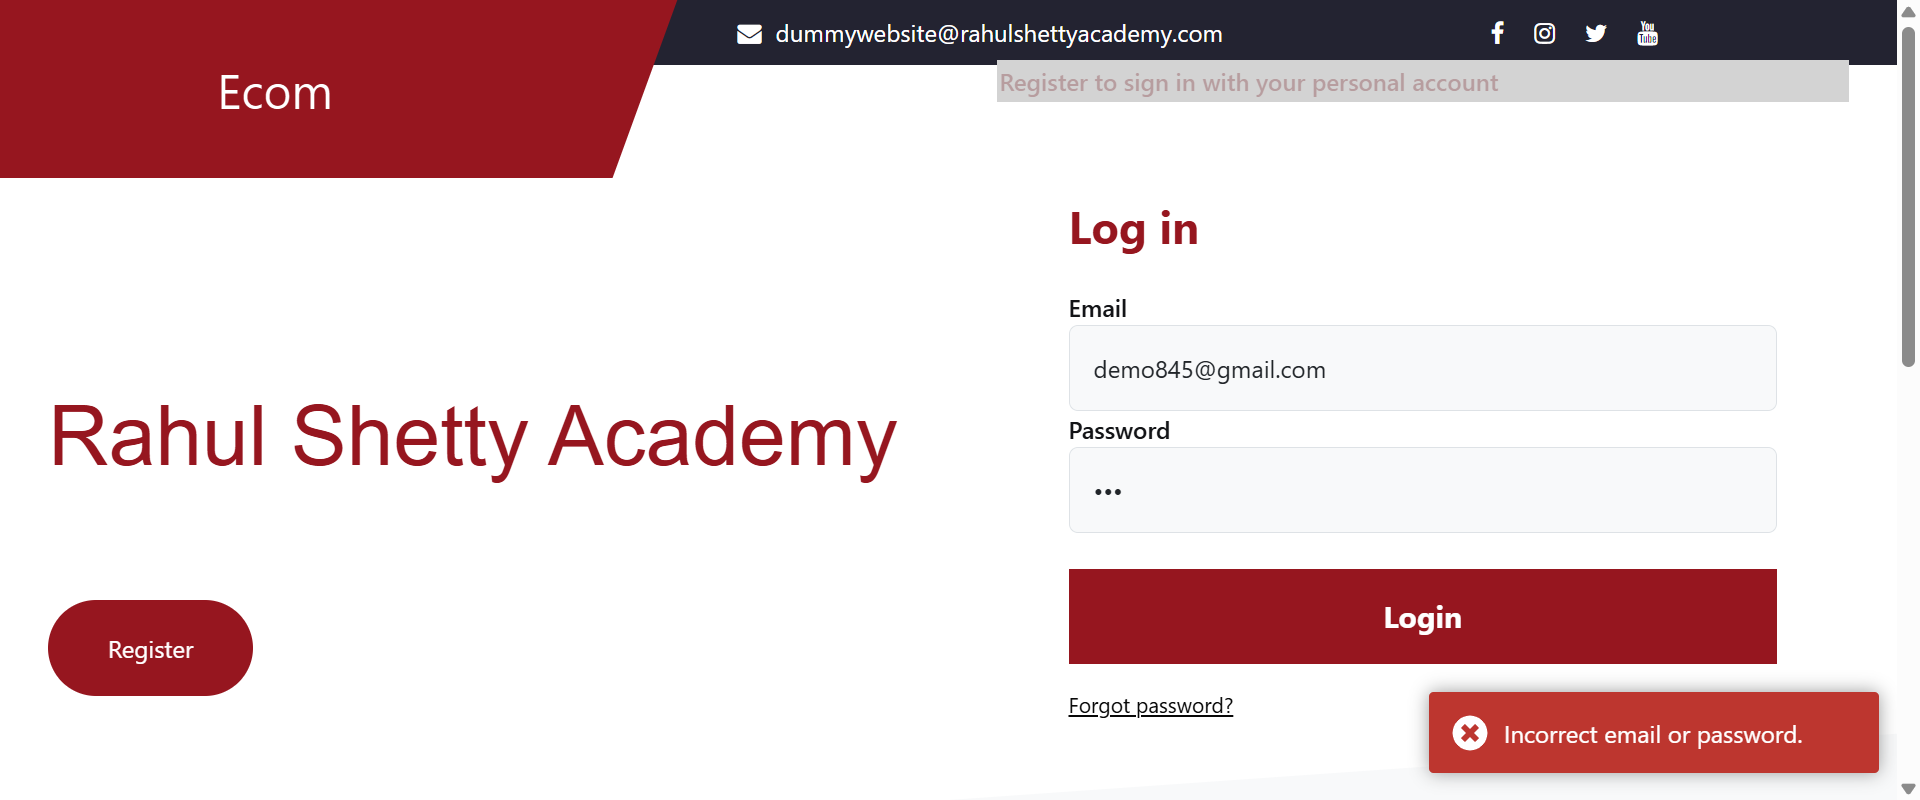
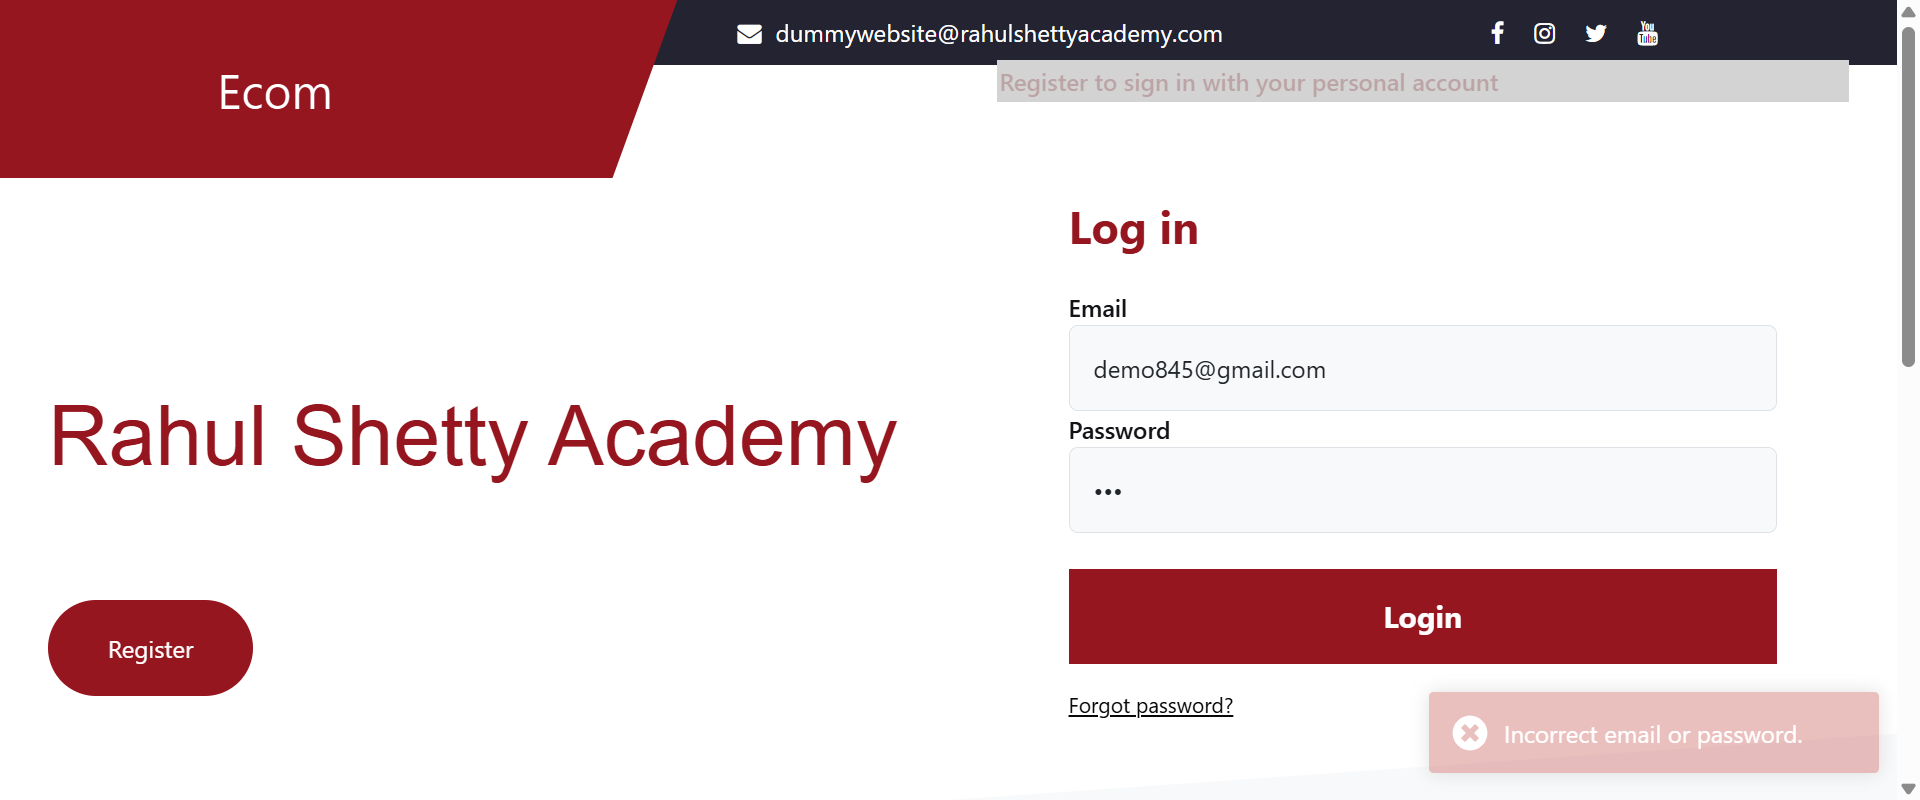
new commit

Changed region(s): [[0.7188, 0.8438, 1.0, 0.9688]]

diff --git a/reports/index.html b/reports/index.html
@@ -35,7 +35,7 @@
 <a href="#"><span class="badge badge-primary">Web Automation Results</span></a>
 </li>
 <li class="m-r-10">
-<a href="#"><span class="badge badge-primary">Feb 23, 2026 06:49:31 pm</span></a>
+<a href="#"><span class="badge badge-primary">Mar 16, 2026 11:35:44 am</span></a>
 </li>
 </ul>
 </div>
@@ -45,11 +45,6 @@
 <li class="nav-item dropdown" onclick="toggleView('test-view')">
 <a id="nav-test" class="dropdown-toggle" href="#">
 <span class="ico"><i class="fa fa-list"></i></span>
-</a>
-</li>
-<li class="nav-item dropdown" onclick="toggleView('exception-view')">
-<a id="nav-exception" class="dropdown-toggle" href="#">
-<span class="ico"><i class="fa fa-bug"></i></span>
 </a>
 </li>
 <li class="nav-item dropdown" onclick="toggleView('dashboard-view')">
@@ -72,7 +67,6 @@
 <a href="#" class="dropdown-toggle" data-toggle="dropdown"><i class="fa fa-exclamation-circle"></i></a>
 <ul id="status-toggle" class="dropdown-menu dropdown-md p-v-0">
 <a class="dropdown-item" status="pass" href="#"><span>Pass</span><span class="status success"></span></a>
-<a class="dropdown-item" status="fail" href="#"><span>Fail</span><span class="status danger"></span></a>
 <div class="dropdown-divider"></div>
 <a status="clear" class="dropdown-item" href="#"><span>Clear</span><span class="pull-right"><i class="fa fa-close"></i></span></a>
 </ul>
@@ -85,9 +79,9 @@
           tag=""
           device="">
           <div class="test-detail">
-            <p class="name">loginErrorValidation</p>
+            <p class="name">placeOrder</p>
             <p class="text-sm">
-              <span>6:49:35 pm</span> / <span>00:00:00:688</span>
+              <span>11:35:49 am</span> / <span>00:00:04:129</span>
               <span class="badge pass-bg log float-right">Pass</span>
             </p>
           </div>
@@ -95,10 +89,10 @@
 <div class="detail-head">
 <div class="p-v-10">
 <div class="info">
-<h5 class="test-status text-pass">loginErrorValidation</h5>
-<span class='badge badge-success'>02.23.2026 6:49:35 pm</span>
-<span class='badge badge-danger'>02.23.2026 6:49:36 pm</span>
-<span class='badge badge-default'>00:00:00:688</span>
+<h5 class="test-status text-pass">placeOrder</h5>
+<span class='badge badge-success'>03.16.2026 11:35:49 am</span>
+<span class='badge badge-danger'>03.16.2026 11:35:54 am</span>
+<span class='badge badge-default'>00:00:04:129</span>
 &middot; <span class='uri-anchor badge badge-default'>#test-id=1</span>
 <span title='Skip to the next failed step' class='badge badge-danger pointer float-right ne ml-1'><i class="fa fa-fast-forward"></i></span>
 <span title='Collapse all nodes' class='badge badge-default pointer float-right ct ml-1'><i class="fa fa-compress"></i></span>
@@ -111,9 +105,9 @@
   <tbody>
       <tr class="event-row">
         <td><span class="badge log pass-bg">Pass</span></td>
-        <td>6:49:36 pm</td>
+        <td>11:35:54 am</td>
         <td>
-          Test Skipped
+          Test Passed
         </td>
       </tr>
   </tbody>
@@ -121,84 +115,40 @@
 </div>
           </div>
         </li>
-        <li class="test-item"  status="fail" test-id="2"
+        <li class="test-item"  status="pass" test-id="2"
           author=""
           tag=""
           device="">
           <div class="test-detail">
-            <p class="name">loginErrorValidation</p>
+            <p class="name">placeOrder</p>
             <p class="text-sm">
-              <span>6:49:40 pm</span> / <span>00:00:01:401</span>
-              <span class="badge fail-bg log float-right">Fail</span>
+              <span>11:36:00 am</span> / <span>00:00:03:863</span>
+              <span class="badge pass-bg log float-right">Pass</span>
             </p>
           </div>
           <div class="test-contents d-none">
 <div class="detail-head">
 <div class="p-v-10">
 <div class="info">
-<h5 class="test-status text-fail">loginErrorValidation</h5>
-<span class='badge badge-success'>02.23.2026 6:49:40 pm</span>
-<span class='badge badge-danger'>02.23.2026 6:49:41 pm</span>
-<span class='badge badge-default'>00:00:01:401</span>
+<h5 class="test-status text-pass">placeOrder</h5>
+<span class='badge badge-success'>03.16.2026 11:36:00 am</span>
+<span class='badge badge-danger'>03.16.2026 11:36:04 am</span>
+<span class='badge badge-default'>00:00:03:863</span>
 &middot; <span class='uri-anchor badge badge-default'>#test-id=2</span>
 <span title='Skip to the next failed step' class='badge badge-danger pointer float-right ne ml-1'><i class="fa fa-fast-forward"></i></span>
 <span title='Collapse all nodes' class='badge badge-default pointer float-right ct ml-1'><i class="fa fa-compress"></i></span>
 <span title='Expand all nodes' class='badge badge-default pointer float-right et'><i class="fa fa-expand"></i></span>
 </div>
 </div>
-</div>    <div class="row mb-3"><div class="col-md-3">
-    
-
-<img data-featherlight='C:\Users\280713\IdeaProjects\SeleniumPracticeFK_RahulShetty//reports//loginErrorValidation.png' src="C:\Users\280713\IdeaProjects\SeleniumPracticeFK_RahulShetty//reports//loginErrorValidation.png">
-  
-    
-
-    </div></div>
-<div class="detail-body mt-4">
+</div><div class="detail-body mt-4">
 <table class="table table-sm">
   <thead><tr><th class="status-col">Status</th><th class="timestamp-col">Timestamp</th><th class="details-col">Details</th></tr></thead>
   <tbody>
       <tr class="event-row">
-        <td><span class="badge log fail-bg">Fail</span></td>
-        <td>6:49:41 pm</td>
+        <td><span class="badge log pass-bg">Pass</span></td>
+        <td>11:36:04 am</td>
         <td>
-          <textarea readonly class="code-block">java.lang.AssertionError: expected [Incorrect email and password.] but found [Incorrect email or password.]
-	at org.testng.Assert.fail(Assert.java:111)
-	at org.testng.Assert.failNotEquals(Assert.java:1590)
-	at org.testng.Assert.assertEqualsImpl(Assert.java:150)
-	at org.testng.Assert.assertEquals(Assert.java:132)
-	at org.testng.Assert.assertEquals(Assert.java:656)
-	at org.testng.Assert.assertEquals(Assert.java:666)
-	at com.automation.tests.ErrorValidationTest.loginErrorValidation(ErrorValidationTest.java:15)
-	at java.base/jdk.internal.reflect.NativeMethodAccessorImpl.invoke0(Native Method)
-	at java.base/jdk.internal.reflect.NativeMethodAccessorImpl.invoke(NativeMethodAccessorImpl.java:77)
-	at java.base/jdk.internal.reflect.DelegatingMethodAccessorImpl.invoke(DelegatingMethodAccessorImpl.java:43)
-	at java.base/java.lang.reflect.Method.invoke(Method.java:569)
-	at org.testng.internal.invokers.MethodInvocationHelper.invokeMethod(MethodInvocationHelper.java:141)
-	at org.testng.internal.invokers.TestInvoker.invokeMethod(TestInvoker.java:697)
-	at org.testng.internal.invokers.TestInvoker.retryFailed(TestInvoker.java:280)
-	at org.testng.internal.invokers.MethodRunner.runInSequence(MethodRunner.java:76)
-	at org.testng.internal.invokers.TestInvoker$MethodInvocationAgent.invoke(TestInvoker.java:1005)
-	at org.testng.internal.invokers.TestInvoker.invokeTestMethods(TestInvoker.java:203)
-	at org.testng.internal.invokers.TestMethodWorker.invokeTestMethods(TestMethodWorker.java:154)
-	at org.testng.internal.invokers.TestMethodWorker.run(TestMethodWorker.java:134)
-	at java.base/java.util.ArrayList.forEach(ArrayList.java:1511)
-	at org.testng.TestRunner.privateRun(TestRunner.java:744)
-	at org.testng.TestRunner.run(TestRunner.java:616)
-	at org.testng.SuiteRunner.runTest(SuiteRunner.java:421)
-	at org.testng.SuiteRunner.runSequentially(SuiteRunner.java:413)
-	at org.testng.SuiteRunner.privateRun(SuiteRunner.java:373)
-	at org.testng.SuiteRunner.run(SuiteRunner.java:312)
-	at org.testng.SuiteRunnerWorker.runSuite(SuiteRunnerWorker.java:52)
-	at org.testng.SuiteRunnerWorker.run(SuiteRunnerWorker.java:95)
-	at org.testng.TestNG.runSuitesSequentially(TestNG.java:1274)
-	at org.testng.TestNG.runSuitesLocally(TestNG.java:1208)
-	at org.testng.TestNG.runSuites(TestNG.java:1112)
-	at org.testng.TestNG.run(TestNG.java:1079)
-	at com.intellij.rt.testng.IDEARemoteTestNG.run(IDEARemoteTestNG.java:65)
-	at com.intellij.rt.testng.RemoteTestNGStarter.main(RemoteTestNGStarter.java:105)
-</textarea>
-          
+          Test Passed
         </td>
       </tr>
   </tbody>
@@ -215,79 +165,30 @@
 </div>
 <div class="test-content-detail"><div class="detail-body"></div></div>
 </div></div>
-<div class="test-wrapper row view exception-view attributes-view">
-<div class="test-list">
-<div class="test-list-tools">
-<ul class="tools pull-left"><li><a href=""><span class="font-size-14">Exception</span></a></li></ul>
-<ul class="tools text-right"><li><a href="#"><span class="badge badge-primary">1</span></a></li></ul>
-</div>
-<div class="test-list-wrapper scrollable">
-<ul class="test-list-item">
-<li class="test-item">
-<div class="test-detail">
-<span class="meta">
-<span class='badge log badge-danger'>1</span>
-</span>
-<p class="name">java.lang.AssertionError</p>
-<p class="duration text-sm">1 tests</p>
-</div>
-<div class="test-contents d-none">
-<div class="info">
-<h4>java.lang.AssertionError</h4>
-<span status="fail" class='badge log badge-danger'>1 failed</span>
-</div>
-<table class='table table-sm mt-4'>
-<thead>
-<tr>
-<th class="status-col">Status</th>
-<th class="timestamp-col">Timestamp</th>
-<th>TestName</th>
-</tr>
-</thead>
-<tbody>
-<tr class="tag-test-status" status="fail">
-<td><span class="badge log fail-bg">Fail</span></td>
-<td>18:49:40 pm</td>
-<td>
-<a href="#" class="linked" test-id='2' id='2'>loginErrorValidation</a>
-</td>
-</tr>
-</tbody>
-</table>
-</div>
-</li>
-</ul>
-</div>
-</div>
-<div class="test-content scrollable">
-<div class="test-content-detail">
-<div class="detail-body"></div>
-</div>
-</div>
-</div><div class="container-fluid p-4 view dashboard-view">
+<div class="container-fluid p-4 view dashboard-view">
 <div class="row">
 <div class="col-md-3">
 <div class="card"><div class="card-body">
 <p class="m-b-0">Started</p>
-<h3>Feb 23, 2026 06:49:31 pm</h3>
+<h3>Mar 16, 2026 11:35:44 am</h3>
 </div></div>
 </div>
 <div class="col-md-3">
 <div class="card"><div class="card-body">
 <p class="m-b-0">Ended</p>
-<h3>Feb 23, 2026 06:49:41 pm</h3>
+<h3>Mar 16, 2026 11:36:05 am</h3>
 </div></div>
 </div>
 <div class="col-md-3">
 <div class="card"><div class="card-body">
 <p class="m-b-0 text-pass">Tests Passed</p>
-<h3>1</h3>
+<h3>2</h3>
 </div></div>
 </div>
 <div class="col-md-3">
 <div class="card"><div class="card-body">
 <p class="m-b-0 text-fail">Tests Failed</p>
-<h3>1</h3>
+<h3>0</h3>
 </div></div>
 </div>
 </div>
@@ -303,12 +204,12 @@
 </div>
 </div>
 <div class="card-footer">
-<div><small data-tooltip='50%'>
-<b>1</b> tests passed
+<div><small data-tooltip='100%'>
+<b>2</b> tests passed
 </small>
 </div>
 <div>
-<small data-tooltip='50%'><b>1</b> tests failed,
+<small data-tooltip='0%'><b>0</b> tests failed,
 <b>0</b> skipped, <b data-tooltip='0%'>0</b> others
 </small>
 </div>
@@ -326,9 +227,9 @@
 </div>
 </div>
 <div class="card-footer">
-<div><small data-tooltip='50%'><b>1</b> events passed</small></div>
+<div><small data-tooltip='100%'><b>2</b> events passed</small></div>
 <div>
-<small data-tooltip='50%'><b>1</b> events failed,
+<small data-tooltip='0%'><b>0</b> events failed,
 <b data-tooltip='%'>0</b> others
 </small>
 </div>
@@ -345,7 +246,7 @@
 </div></div>
 <script>
 var timeline = {
-"loginErrorValidation":0.688,"loginErrorValidation":1.401
+"placeOrder":4.129,"placeOrder":3.863
 };
 </script>
 <div class="row">
@@ -368,8 +269,8 @@ var timeline = {
 <script>
 var statusGroup = {
 parentCount: 5,
-passParent: 1,
-failParent: 1,
+passParent: 2,
+failParent: 0,
 warningParent: 0,
 skipParent: 0,
 childCount: 5,
@@ -385,8 +286,8 @@ warningGrandChild: 0,
 skipGrandChild: 0,
 infoGrandChild: 0,
 eventsCount: 5,
-passEvents: 1,
-failEvents: 1,
+passEvents: 2,
+failEvents: 0,
 warningEvents: 0,
 skipEvents: 0,
 infoEvents: 0
